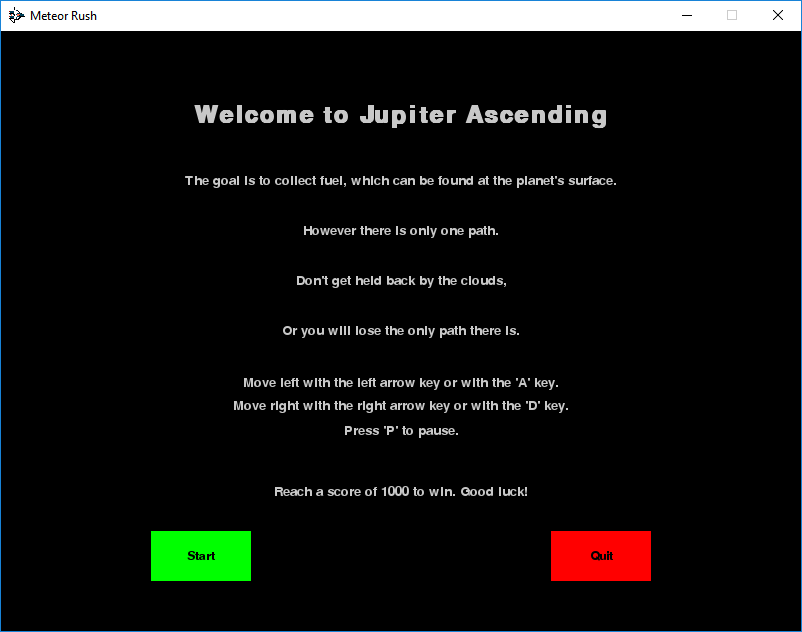
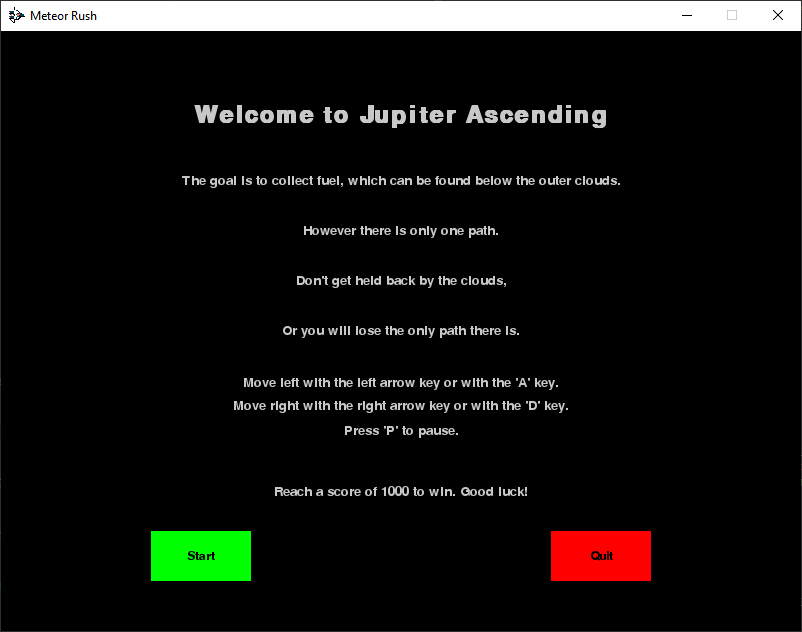
Changed text and image
Changed text and corresponding intro screenshot of jupiter ascending

Changed region(s): [[0.0, 0.0, 1.0, 1.0], [0.2182, 0.2706, 0.7793, 0.3006]]

diff --git a/Jupiter_Folder/Jupiter_Ascending.py b/Jupiter_Folder/Jupiter_Ascending.py
@@ -249,7 +249,7 @@ def game_intro():
         text_surf1, text_rect1 = Important.text_objects("Welcome to Jupiter Ascending", large_text, textcolor)
         text_rect1.center = (windowWidth/2, windowHeight/2/3.5)
 
-        text_surf2, text_rect2 = Important.text_objects("The goal is to collect fuel, which can be found at the planet's surface.", small_text, textcolor)
+        text_surf2, text_rect2 = Important.text_objects("The goal is to collect fuel, which can be found below the outer clouds.", small_text, textcolor)
         text_rect2.center = (windowWidth/2, windowHeight/2/2)
 
         text_surf3, text_rect3 = Important.text_objects("However there is only one path.", small_text, textcolor)
